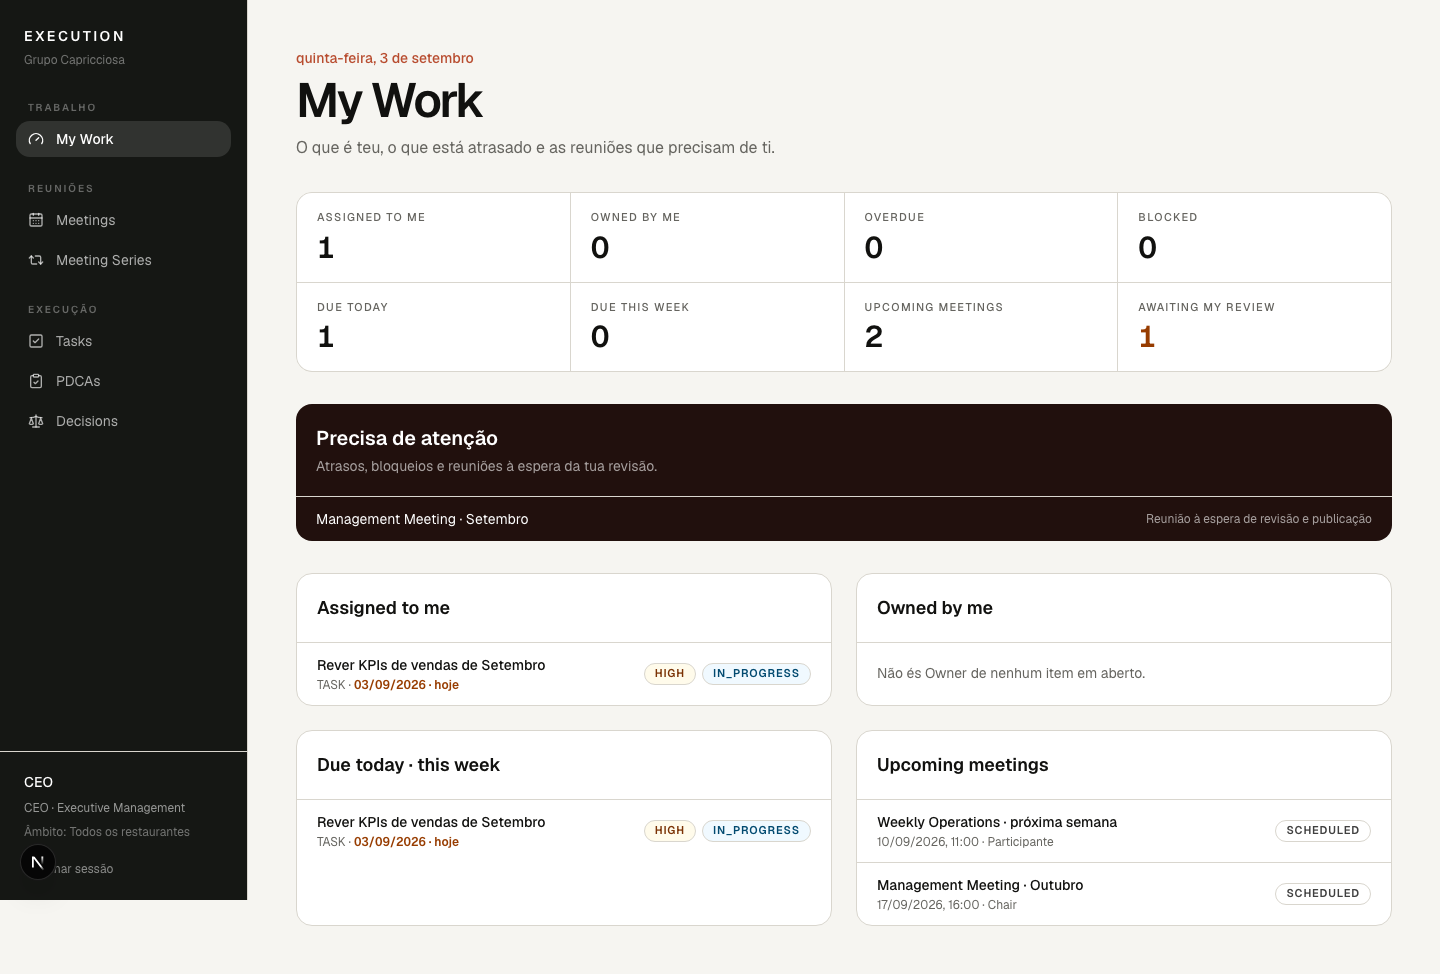
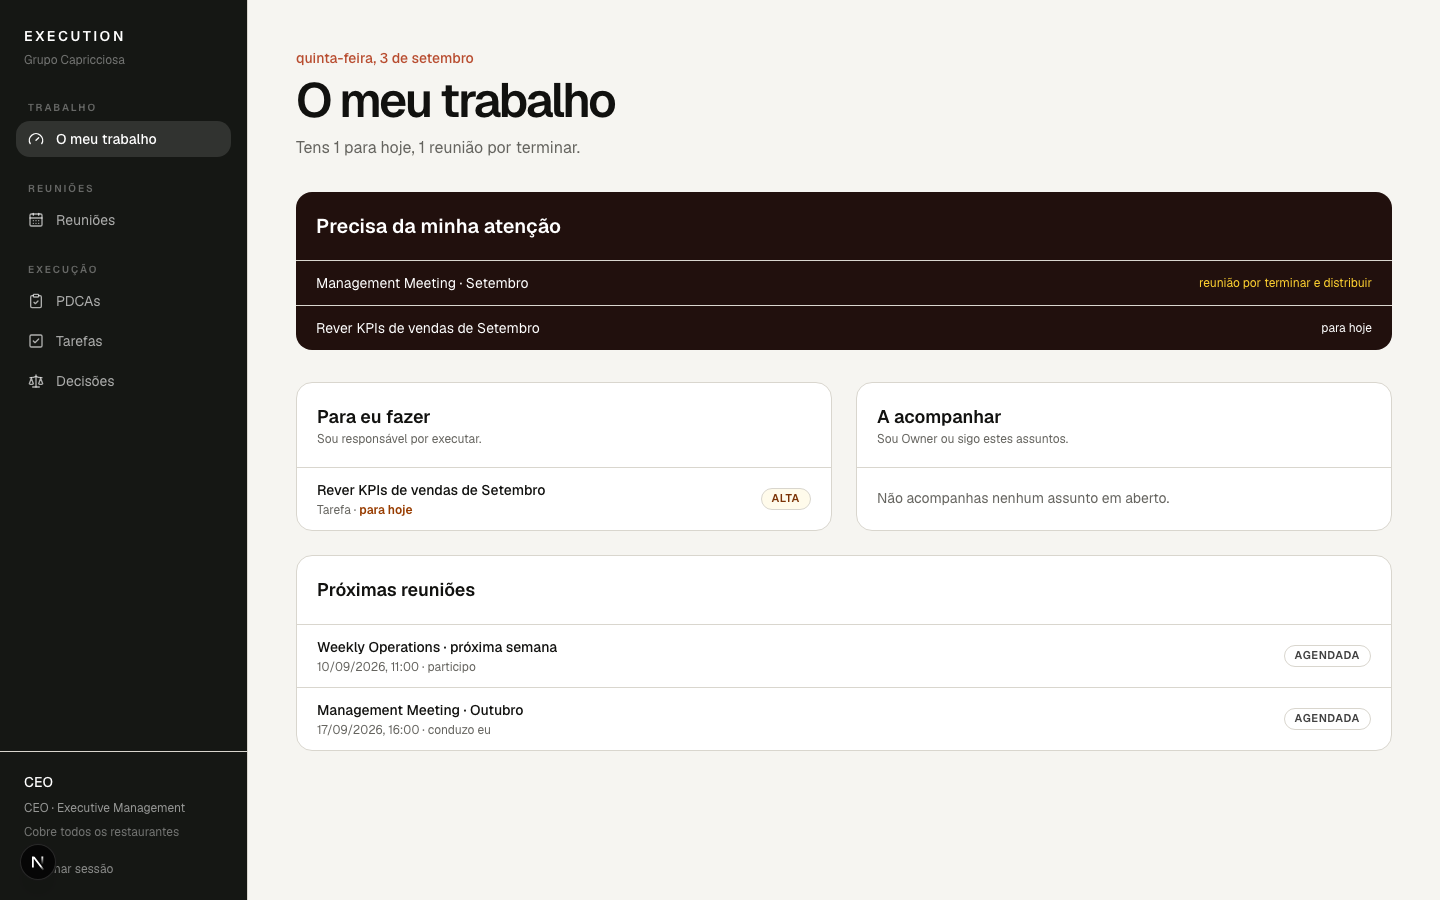
docs: user manual in PT-PT, refreshed desktop and mobile screenshots
Alerts fold technical evidence under 'Detalhe técnico'; screenshot script follows the new routes (finish page, meeting mode sheet, mobile views).

diff --git a/src/ui/patterns/validation-panel.tsx b/src/ui/patterns/validation-panel.tsx
@@ -52,9 +52,12 @@ export function FindingList({
           </span>
           {finding.message}
           {finding.evidence.length > 0 && (
-            <span className="mt-1 block text-xs opacity-80">
-              Evidência: {finding.evidence.join(" · ")}
-            </span>
+            <details className="mt-1 text-xs opacity-80">
+              <summary className="cursor-pointer">Detalhe técnico</summary>
+              <span className="block" data-evidence>
+                {finding.evidence.join(" · ")}
+              </span>
+            </details>
           )}
         </li>
       ))}

diff --git a/docs/manual/05-reunioes.md b/docs/manual/05-reunioes.md
@@ -1,0 +1,55 @@
+# 5. Reuniões
+
+## Marcar uma reunião
+
+Em **Reuniões › Marcar reunião**:
+
+![Marcar reunião](../screenshots/15-new-meeting.png)
+
+Dá um assunto, escolhe início e fim, quem participa, onde se aplica e se se
+repete (semanal, quinzenal, mensal). Ao gravar entras logo na reunião.
+
+## A reunião
+
+![Reunião](../screenshots/11-meeting-mode.png)
+
+Tudo acontece num ecrã:
+
+- **Abrir reunião** quando começa. Não precisas de gerir estados.
+- **Pendentes da reunião anterior** — temas adiados e assuntos abertos da última
+  reunião da série. **Trazer para hoje** coloca um tema na agenda de hoje.
+- **Tema actual** — o próximo tema por discutir, com **Discutido ✓** e
+  **Adiar** (com motivo).
+- **Acções** — **+ Tarefa**, **+ PDCA**, **+ Decisão** abrem um painel lateral;
+  o que criares fica ligado ao tema actual e em rascunho até a reunião terminar.
+- **Notas** — escreve e guarda sozinho («A guardar… / Guardado»). Se outra
+  pessoa alterar a mesma nota aparece «Conflito — rever» e nada se perde.
+- **Agenda** — a ordem dos temas e **Adicionar à agenda**.
+- À direita, **Acções criadas nesta reunião** (a vermelho o que ainda não tem
+  responsável) e **Assuntos ligados**.
+
+![Painel + Tarefa](../screenshots/17-meeting-mode-task-sheet.png)
+
+**Mais** leva à página da reunião: participantes, Chair, repetição, assistente e
+opções avançadas.
+
+## Terminar e distribuir
+
+![Terminar reunião](../screenshots/12-finish-meeting.png)
+
+**Terminar reunião** mostra o resumo: quantas tarefas, PDCAs e decisões, e quem
+fica com o quê. Depois:
+
+1. **Precisa de correcção antes de distribuir** — bloqueios (acção sem
+   responsável, PDCA sem Owner, problema ou objectivo, pessoa sem acesso). O
+   botão fica desactivado até corrigires; **Corrigir** leva ao registo e
+   **Voltar a Terminar reunião** traz-te de volta.
+2. **Temas sem conclusão** — para cada tema por discutir escolhes **Levar para
+   a próxima reunião** ou **Dar como discutido**. Nada é adiado sem escolheres.
+3. **Recomendado** — avisos (sem prazo, sem KPI, sem causa raiz). Não bloqueiam.
+
+**Terminar e distribuir** faz tudo de uma vez: aplica as escolhas da agenda,
+activa as acções e fecha a reunião. Se algo falhar, nada fica a meio. As acções
+passam a aparecer em **O meu trabalho** de quem as executa.
+
+![Terminar no telemóvel](../screenshots/20-finish-meeting-mobile.png)

diff --git a/docs/manual/03-tarefas.md b/docs/manual/03-tarefas.md
@@ -1,0 +1,53 @@
+# 3. Tarefas
+
+Uma tarefa é uma acção concreta: tem um título, um Responsável, normalmente um
+prazo, e diz onde se aplica.
+
+## Criar uma tarefa
+
+Em **Tarefas › Nova tarefa** (ou dentro de uma reunião com **+ Tarefa**):
+
+![Nova tarefa](../screenshots/13-new-task.png)
+
+Campos:
+
+- **O que é preciso fazer?** — o título. Escreve como o dirias em voz alta.
+- **Responsável** — obrigatório. Só aparecem pessoas com acesso ao assunto.
+- **Prazo** — recomendado. Sem prazo a tarefa fica com o aviso «Sem prazo».
+- **Onde se aplica?** — escolhe os restaurantes. Por omissão fica o contexto
+  (a reunião ou os restaurantes que cobres); podes escolher um restaurante, todos
+  os que cobres ou uma combinação. O resumo «Aplica-se a: …» mostra sempre o
+  âmbito final antes de gravar.
+- **Opções avançadas** — Owner, prioridade, descrição, área e visibilidade.
+
+## A página da tarefa
+
+![Tarefa](../screenshots/04-task-detail.png)
+
+De cima para baixo: título e estado; Responsável, prazo e onde se aplica;
+alertas em âmbar quando falta algo; os botões de acção; a descrição; o
+progresso (actualizações e ficheiros); o histórico; e as opções avançadas.
+
+Os botões são verbos, não estados:
+
+| Botão            | O que faz                                                 |
+| ---------------- | --------------------------------------------------------- |
+| Activar          | Tira a tarefa de rascunho (precisa de Responsável).       |
+| Começar          | Marca que está em curso.                                  |
+| Marcar concluída | Abre um painel para escreveres o resultado e concluir.    |
+| Alterar prazo    | Novo prazo e motivo; fica no histórico.                   |
+| Bloquear         | Regista o que está a impedir; a tarefa fica «Bloqueada».  |
+| Desbloquear      | Fecha o bloqueio e retoma.                                |
+| Mais ▾           | Reabrir, cancelar e outras transições, sempre com motivo. |
+
+Nas **Opções avançadas** mudas Owner e Responsável, o âmbito, os colaboradores e
+seguidores e o texto da tarefa.
+
+![Tarefa no telemóvel](../screenshots/19-task-detail-mobile.png)
+
+## Lista de tarefas
+
+![Tarefas](../screenshots/03-tasks.png)
+
+Filtros essenciais à vista: pesquisa, estado, restaurante, responsável e «Só
+atrasados». Em «Mais filtros» tens Owner, prioridade e área.

diff --git a/docs/manual/01-primeiros-passos.md b/docs/manual/01-primeiros-passos.md
@@ -1,0 +1,36 @@
+# 1. Primeiros passos
+
+## Entrar
+
+Abre a aplicação e entra com o teu email da empresa e a tua palavra-passe.
+
+![Entrar](../screenshots/01-login.png)
+
+Se aparecer «Não foi possível iniciar sessão», confirma o email e a
+palavra-passe. Se aparecer «O serviço de autenticação não respondeu», espera
+uns segundos e tenta de novo; não é um problema das tuas credenciais.
+
+## O que vês depois de entrar
+
+Cais em **O meu trabalho**, a página que resume o que precisa de ti hoje. A
+barra lateral tem cinco entradas:
+
+| Entrada        | Para quê                                                |
+| -------------- | ------------------------------------------------------- |
+| O meu trabalho | O que precisa da tua atenção, o que é teu, o que segues |
+| Reuniões       | Marcar, entrar e terminar reuniões                      |
+| PDCAs          | Problemas que se resolvem por fases                     |
+| Tarefas        | Acções concretas com responsável e prazo                |
+| Decisões       | O que ficou decidido e onde se aplica                   |
+
+No fundo da barra vês o teu nome, a tua função e os restaurantes que cobres.
+Isso define o que consegues ver e fazer; não há nada para configurar.
+
+## Vocabulário
+
+- **Responsável**: quem executa. É obrigatório em tarefas e PDCAs.
+- **Owner**: quem acompanha e garante que o assunto não fica esquecido.
+  Obrigatório nos PDCAs, opcional nas tarefas. Nunca é preenchido às escondidas.
+- **Onde se aplica**: os restaurantes (e a área) a que um assunto diz respeito.
+  Quem cobre esses restaurantes passa a vê-lo.
+- **Chair**: quem conduz a reunião e a termina.

diff --git a/docs/manual/04-pdcas.md b/docs/manual/04-pdcas.md
@@ -1,0 +1,34 @@
+# 4. PDCAs
+
+Um PDCA é um problema que se resolve por fases: **Planear**, **Fazer**,
+**Verificar**, **Actuar**. Usa-o quando não chega uma tarefa.
+
+## Criar um PDCA
+
+Em **PDCAs › Novo PDCA** ou dentro de uma reunião com **+ PDCA**:
+
+![Novo PDCA](../screenshots/14-new-pdca.png)
+
+Obrigatório: **Qual é o problema?**, **O que queremos atingir?**,
+**Responsável** e **Owner**. O título é derivado da primeira frase do problema
+(podes mudá-lo nas opções avançadas). Prazo, causa raiz, resultado esperado,
+prioridade, impacto e risco são opcionais e geram avisos quando faltam.
+
+## A página do PDCA
+
+![PDCA](../screenshots/06-pdca-detail.png)
+
+O topo mostra Responsável, Owner, prazo, onde se aplica e a fase. Logo abaixo,
+o **Problema** e o **Objectivo**, sempre visíveis.
+
+Os separadores **Planear / Fazer / Verificar / Actuar** mostram só os campos da
+fase escolhida:
+
+- **Planear**: problema, objectivo, causa raiz ou hipótese, resultado esperado.
+- **Fazer**: as tarefas deste PDCA e o botão **+ Tarefa**; um bloqueio activo
+  aparece aqui.
+- **Verificar**: resultado real e notas de verificação.
+- **Actuar**: acção correctiva e standardização/resultado.
+
+O botão **Avançar para …** muda de fase. A fase actual está sublinhada quando
+estás a ver outra. Concluir um PDCA só é possível na fase Actuar.

diff --git a/docs/manual/09-faq.md b/docs/manual/09-faq.md
@@ -1,0 +1,28 @@
+# 9. Perguntas frequentes
+
+**Não vejo uma pessoa na lista de Responsável.**
+Só aparecem pessoas com acesso ao assunto. Alarga o âmbito (onde se aplica) ou
+pede a quem gere acessos.
+
+**Criei uma tarefa na reunião e ela não aparece em O meu trabalho.**
+As acções criadas na reunião ficam em rascunho até **Terminar e distribuir**.
+
+**Posso terminar uma reunião com temas por discutir?**
+Sim. Para cada um escolhes levar para a próxima reunião ou dar como discutido.
+
+**O botão Terminar e distribuir está desactivado.**
+Há bloqueios listados a vermelho. Corrige-os (normalmente falta um responsável
+ou um Owner) e volta.
+
+**Perdi texto numa nota?**
+As notas guardam sozinhas; se houver conflito com outra pessoa aparece
+«Conflito — rever» e o teu texto fica no ecrã até decidires. O texto de uma nova
+nota ainda não adicionada fica guardado neste separador do browser.
+
+**Onde estão os estados técnicos das reuniões?**
+Não precisas deles. Uma reunião está Agendada, A decorrer, A validar ou
+Terminada; a aplicação trata do resto.
+
+**Uma tarefa precisa de Owner?**
+Não. Precisa de Responsável. O Owner é recomendado para assuntos que alguém
+deve acompanhar. Nos PDCAs o Owner é obrigatório.

diff --git a/docs/manual/08-exemplos.md b/docs/manual/08-exemplos.md
@@ -1,0 +1,27 @@
+# 8. Exemplos práticos
+
+## Reunião semanal de operações
+
+1. Entra em **Reuniões** e abre a reunião de hoje (**Entrar na reunião**).
+2. Carrega em **Abrir reunião**.
+3. Traz para hoje o tema adiado da semana passada.
+4. Enquanto se fala, escreve as notas; guardam sozinhas.
+5. Ficou combinado contactar o fornecedor: **+ Tarefa**, responsável e prazo.
+6. Um problema repetido merece **+ PDCA**: problema, objectivo, responsável e
+   Owner.
+7. Marca o tema como **Discutido ✓** e passa ao seguinte.
+8. No fim, **Terminar reunião** → corrige o que estiver a vermelho → decide o
+   que fazer com os temas por discutir → **Terminar e distribuir**.
+
+## Uma tarefa atrasada
+
+Abre-a a partir de **Precisa da minha atenção**. Se o prazo já não faz
+sentido, **Alterar prazo** com o motivo. Se algo a impede, **Bloquear** e
+escreve o quê; o Owner vê o bloqueio. Quando estiver feita, **Marcar concluída**.
+
+## Um PDCA que chega à verificação
+
+Na fase **Fazer**, cria as tarefas. Quando terminarem, **Avançar para
+Verificar** e escreve o resultado real. Se resultou, **Avançar para Actuar**,
+regista a standardização e **Concluir PDCA**. Se não resultou, volta a Planear
+pelo **Mais ▾** com o motivo.

diff --git a/docs/manual/02-o-meu-trabalho.md b/docs/manual/02-o-meu-trabalho.md
@@ -1,0 +1,19 @@
+# 2. O meu trabalho
+
+![O meu trabalho](../screenshots/02-my-work.png)
+
+A página abre com uma frase que resume o teu dia («Tens 1 para hoje, 1 reunião
+por terminar»). Depois tem quatro blocos:
+
+1. **Precisa da minha atenção** — atrasados, bloqueados, para hoje e reuniões
+   por terminar. Se estiver vazio, está tudo em ordem.
+2. **Para eu fazer** — tudo o que executas (és Responsável). Ao lado de cada
+   item aparece o prazo em linguagem simples («para hoje», «há 3 dias») e, em
+   âmbar, o que falta («sem prazo», «sem Owner»).
+3. **A acompanhar** — o que és Owner ou segues, sem ser tu a executar.
+4. **Próximas reuniões** — as reuniões em que participas ou conduzes. Clica
+   para entrar directamente na reunião.
+
+Em telemóvel a página é a mesma, empilhada.
+
+![O meu trabalho no telemóvel](../screenshots/16-my-work-mobile.png)

diff --git a/docs/manual/07-visibilidade.md b/docs/manual/07-visibilidade.md
@@ -1,0 +1,17 @@
+# 7. Quem vê o quê
+
+Vês um assunto quando a tua função cobre os restaurantes e a área onde ele se
+aplica. Não há listas de partilha para gerir.
+
+- **Normal** — quem cobre o âmbito vê. É o caso quase sempre.
+- **Restrita** — para assuntos sensíveis. Vê quem cobre o âmbito **e** tem
+  permissão para assuntos restritos. **Quem criou o assunto continua a vê-lo**
+  enquanto a sua função cobrir esse âmbito.
+- **Privada** — só quem criou, mais quem receber acesso explícito.
+
+Ser Responsável ou Owner não dá acesso por si só: se a pessoa não cobre o
+âmbito, a aplicação avisa e pede para corrigir o âmbito ou a pessoa. Nunca cria
+acessos escondidos.
+
+Se deixares de cobrir um restaurante, deixas de ver os assuntos desse
+restaurante, incluindo os que criaste com visibilidade restrita.

diff --git a/docs/manual/README.md b/docs/manual/README.md
@@ -1,0 +1,19 @@
+# Manual de utilizador — Execution
+
+Plataforma de execução do Grupo Capricciosa: reuniões, tarefas, PDCAs e decisões
+num só sítio, com a segurança de que cada pessoa só vê o que lhe diz respeito.
+
+Capítulos:
+
+1. [Primeiros passos](01-primeiros-passos.md)
+2. [O meu trabalho](02-o-meu-trabalho.md)
+3. [Tarefas](03-tarefas.md)
+4. [PDCAs](04-pdcas.md)
+5. [Reuniões](05-reunioes.md)
+6. [Decisões](06-decisoes.md)
+7. [Quem vê o quê](07-visibilidade.md)
+8. [Exemplos práticos](08-exemplos.md)
+9. [Perguntas frequentes](09-faq.md)
+
+As imagens vêm de `docs/screenshots/` e são regeneradas com
+`node scripts/screenshots.mjs` (ambiente de desenvolvimento com dados de demonstração).

diff --git a/README.md b/README.md
@@ -41,7 +41,7 @@ npm run dev
 
 Development users, the permission walkthrough and the recommended demo flow are in
 [docs/demo-guide.md](docs/demo-guide.md). Screenshots of every screen are in
-`docs/screenshots/` and can be regenerated with `node scripts/screenshots.mjs`
+`docs/screenshots/` and can be regenerated with `node scripts/screenshots.mjs`. The user manual (PT-PT) lives in `docs/manual/README.md`
 while `npm run dev` is running.
 
 AI is disabled unless `AI_PROVIDER` is set: use `fake` for a deterministic local

diff --git a/docs/manual/06-decisoes.md b/docs/manual/06-decisoes.md
@@ -1,0 +1,10 @@
+# 6. Decisões
+
+Uma decisão é o que ficou decidido, com data e onde se aplica.
+
+![Decisões](../screenshots/07-decisions.png)
+
+Cria em **Decisões › Nova decisão** ou numa reunião com **+ Decisão**. Só
+precisas de escrever **O que ficou decidido?** e confirmar onde se aplica; a
+data é hoje por omissão. A página da decisão mostra a reunião de origem, as
+tarefas e PDCAs que gerou e permite criar uma tarefa a partir dela.
